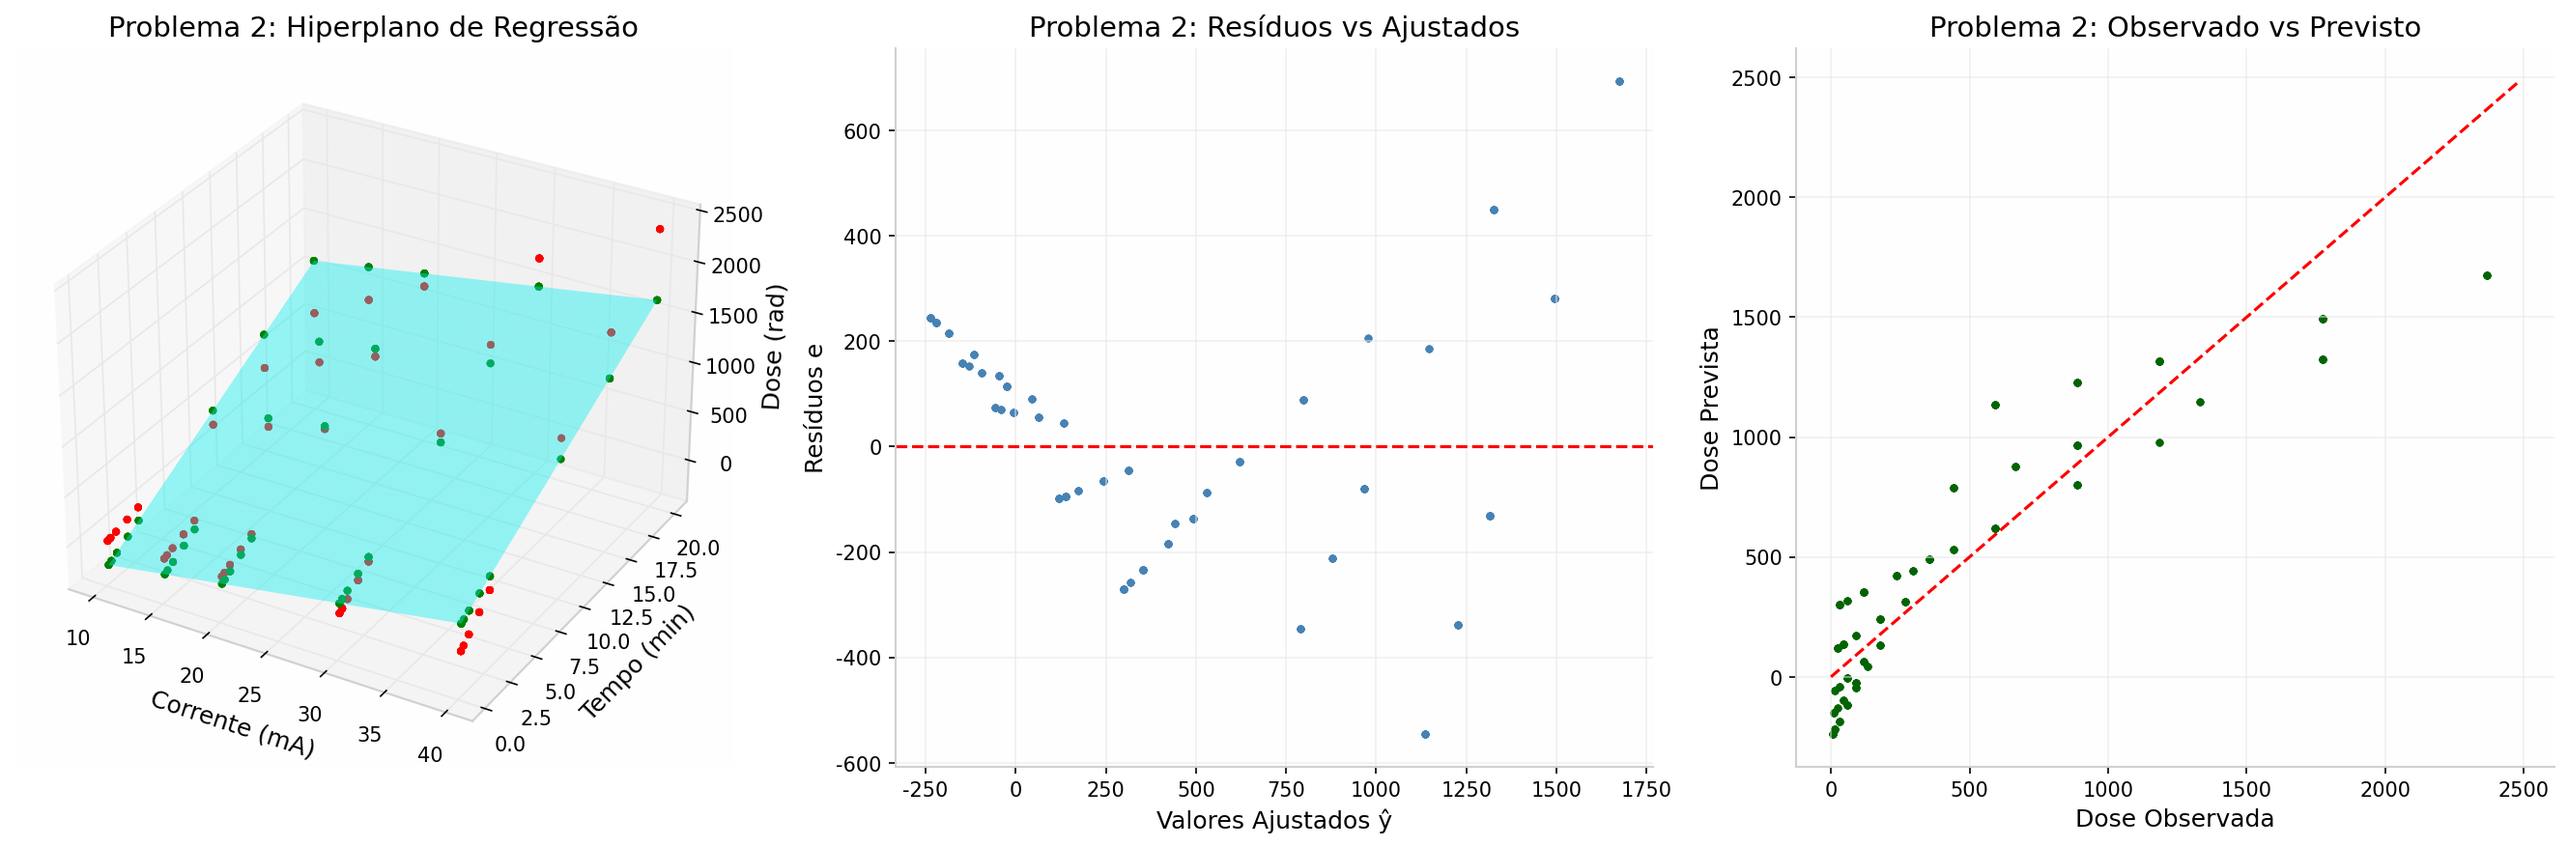
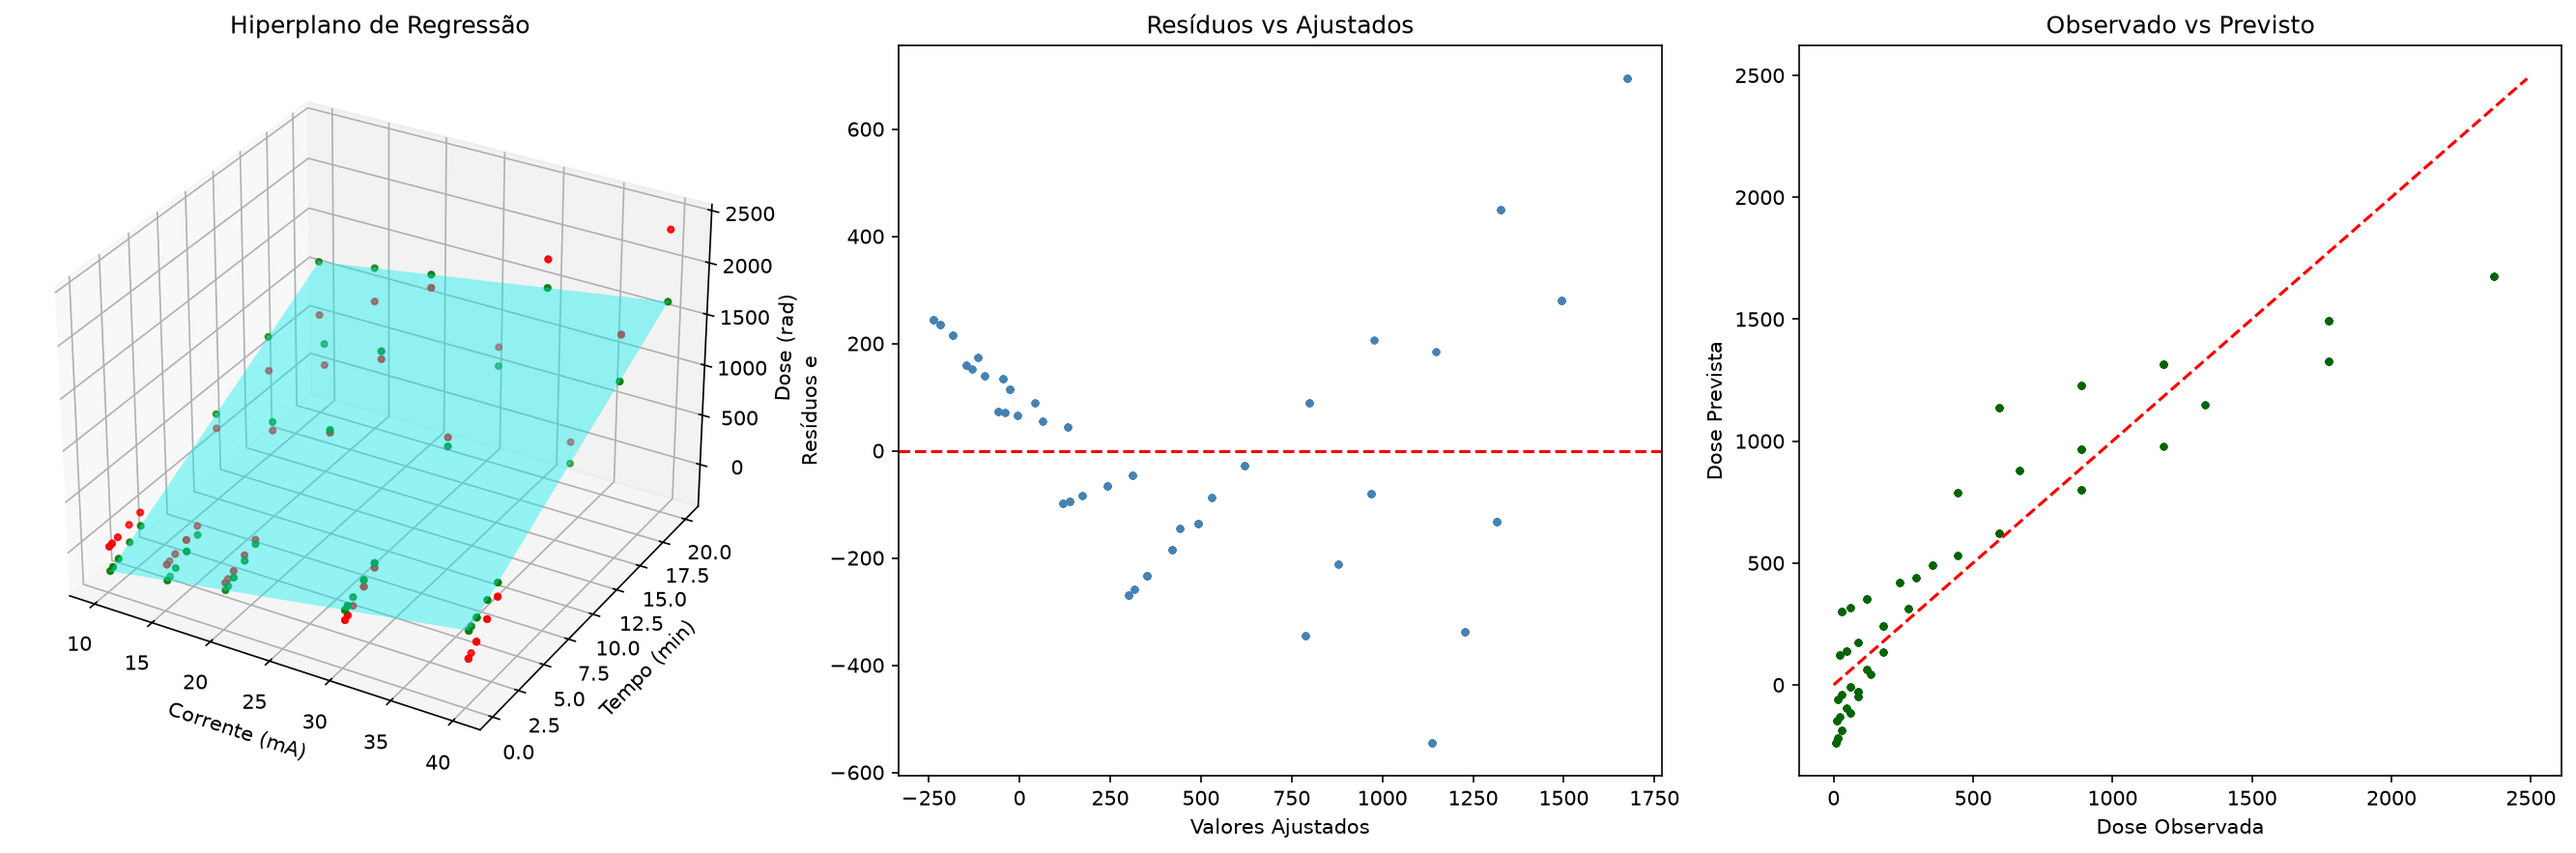
trabalho

diff --git a/problema1_arsenio.py b/problema1_arsenio.py
@@ -10,7 +10,7 @@ from scipy import stats
 
 # ==================== LEITURA DOS DADOS (np.loadtxt, padrão aula) ====================
 # Idade, Sexo, Uso_Beber, Uso_Cozinhar, Arsenio_Agua, Arsenio_Unhas
-dados = np.loadtxt("arsenio_dataset.csv", delimiter=",", skiprows=1)
+dados = np.loadtxt("arsenio_dataset (1).csv", delimiter=",", skiprows=1)
 print("Dados de entrada:\n", dados)
 
 X = dados[:, [0, 2, 3, 4]]   # Idade, Uso_Beber, Uso_Cozinhar, Arsenio_Agua
